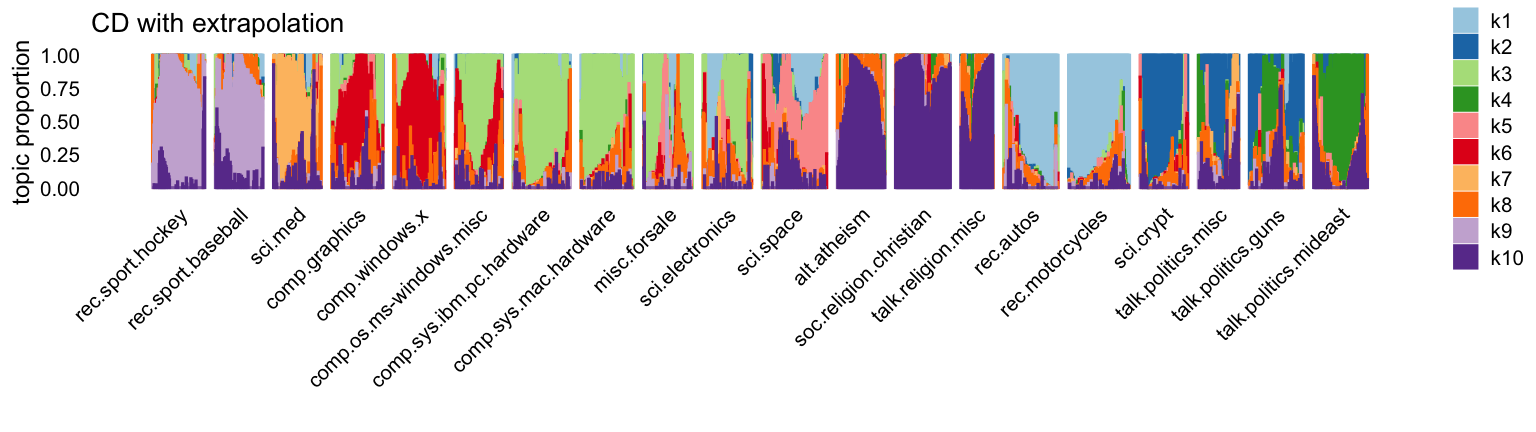
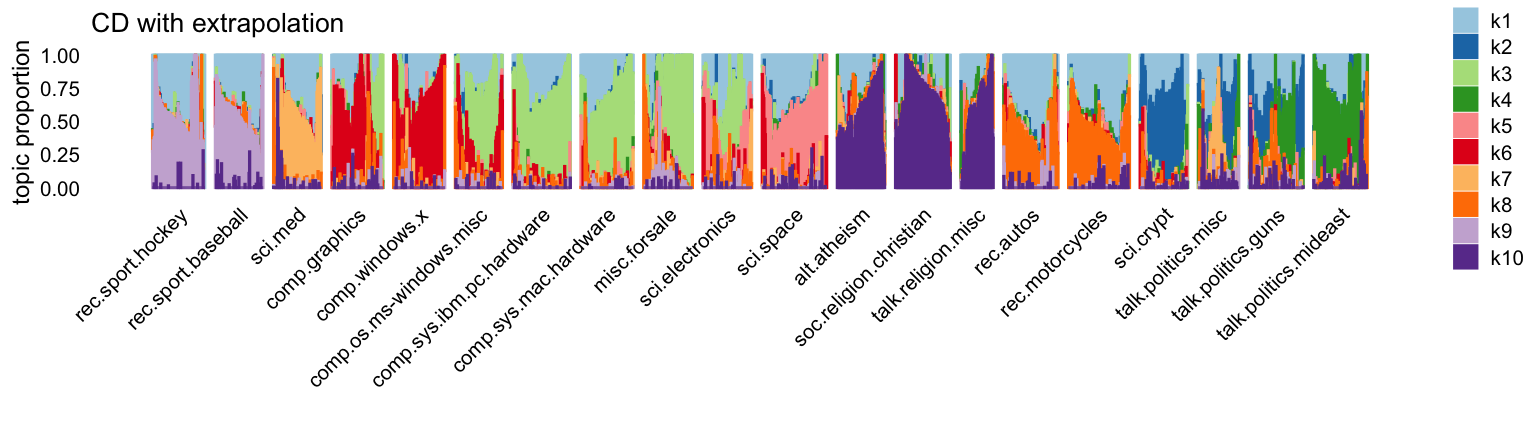
Fixed one of the structure plots in newsgroups_more analysis.

Changed region(s): [[0.0938, 0.1204, 0.9062, 0.4514]]

diff --git a/docs/newsgroups_more.html b/docs/newsgroups_more.html
@@ -433,15 +433,15 @@ project makes it easier to run your code on other machines.</p>
 <div class="panel panel-default">
 <div class="panel-heading">
 <p class="panel-title">
-<a data-toggle="collapse" data-parent="#workflowr-checks" href="#strongRepositoryversionstrongahrefhttpsgithubcomstephenslabfastTopicsexperimentstree7f54463ce2a502abd6827e2c2726eed94cd06c74targetblank7f54463a">
+<a data-toggle="collapse" data-parent="#workflowr-checks" href="#strongRepositoryversionstrongahrefhttpsgithubcomstephenslabfastTopicsexperimentstree1716ea38accf6cbb8fdaa01efc3e3b52623f69e3targetblank1716ea3a">
 <span class="glyphicon glyphicon-ok text-success"
 aria-hidden="true"></span> <strong>Repository version:</strong>
-<a href="https://github.com/stephenslab/fastTopics-experiments/tree/7f54463ce2a502abd6827e2c2726eed94cd06c74" target="_blank">7f54463</a>
+<a href="https://github.com/stephenslab/fastTopics-experiments/tree/1716ea38accf6cbb8fdaa01efc3e3b52623f69e3" target="_blank">1716ea3</a>
 </a>
 </p>
 </div>
 <div
[2 lines of base64/hex data omitted]
 class="panel-collapse collapse">
 <div class="panel-body">
 <p>
@@ -451,7 +451,7 @@ reproducibility.
 </p>
 <p>
 The results in this page were generated with repository version
-<a href="https://github.com/stephenslab/fastTopics-experiments/tree/7f54463ce2a502abd6827e2c2726eed94cd06c74" target="_blank">7f54463</a>.
+<a href="https://github.com/stephenslab/fastTopics-experiments/tree/1716ea38accf6cbb8fdaa01efc3e3b52623f69e3" target="_blank">1716ea3</a>.
 See the <em>Past versions</em> tab to see a history of the changes made
 to the R Markdown and HTML files.
 </p>
@@ -533,6 +533,40 @@ Message
 </tr>
 </thead>
 <tbody>
+<tr>
+<td>
+Rmd
+</td>
+<td>
+<a href="https://github.com/stephenslab/fastTopics-experiments/blob/1716ea38accf6cbb8fdaa01efc3e3b52623f69e3/analysis/newsgroups_more.Rmd" target="_blank">1716ea3</a>
+</td>
+<td>
+Peter Carbonetto
+</td>
+<td>
+2024-08-10
+</td>
+<td>
+workflowr::wflow_publish("newsgroups_more.Rmd", verbose = TRUE)
+</td>
+</tr>
+<tr>
+<td>
+html
+</td>
+<td>
+<a href="https://rawcdn.githack.com/stephenslab/fastTopics-experiments/2b1b3d5171792963d78a06f627559b46e732403c/docs/newsgroups_more.html" target="_blank">2b1b3d5</a>
+</td>
+<td>
+Peter Carbonetto
+</td>
+<td>
+2024-08-10
+</td>
+<td>
+Switching to MLEs in newsgroups_more.
+</td>
+</tr>
 <tr>
 <td>
 Rmd
@@ -761,6 +795,17 @@ Date
 <tbody>
 <tr>
 <td>
+<a href="https://github.com/stephenslab/fastTopics-experiments/blob/2b1b3d5171792963d78a06f627559b46e732403c/docs/figure/newsgroups_more.Rmd/structure-plot-em-1.png" target="_blank">2b1b3d5</a>
+</td>
+<td>
+Peter Carbonetto
+</td>
+<td>
+2024-08-10
+</td>
+</tr>
+<tr>
+<td>
 <a href="https://github.com/stephenslab/fastTopics-experiments/blob/f79da59cebfbbbfe09deb3407f374083529a3470/docs/figure/newsgroups_more.Rmd/structure-plot-em-1.png" target="_blank">f79da59</a>
 </td>
 <td>
@@ -775,7 +820,7 @@ Peter Carbonetto
 </div>
 </div>
 <p>And here are the CD estimates:</p>
-<pre class="r"><code>L2 &lt;- select_loadings(fit1,rows)$L
+<pre class="r"><code>L2 &lt;- select_loadings(fit2,rows)$L
 p2 &lt;- structure_plot(L2,topics = 1:10,grouping = topics[rows],
                      colors = topic_colors,gap = 20) +
   ggtitle(&quot;CD with extrapolation&quot;) +
@@ -804,6 +849,17 @@ Date
 </tr>
 </thead>
 <tbody>
+<tr>
+<td>
+<a href="https://github.com/stephenslab/fastTopics-experiments/blob/2b1b3d5171792963d78a06f627559b46e732403c/docs/figure/newsgroups_more.Rmd/structure-plot-cd-1.png" target="_blank">2b1b3d5</a>
+</td>
+<td>
+Peter Carbonetto
+</td>
+<td>
+2024-08-10
+</td>
+</tr>
 <tr>
 <td>
 <a href="https://github.com/stephenslab/fastTopics-experiments/blob/f79da59cebfbbbfe09deb3407f374083529a3470/docs/figure/newsgroups_more.Rmd/structure-plot-cd-1.png" target="_blank">f79da59</a>
